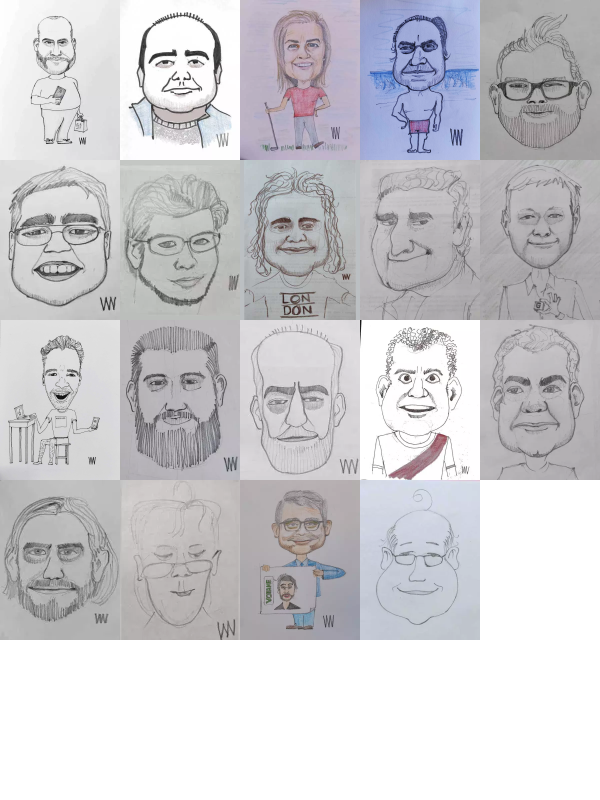
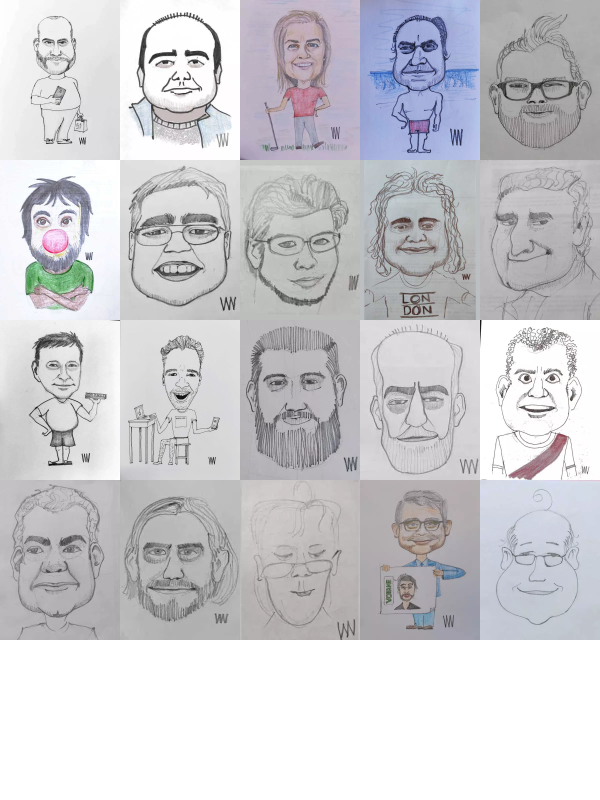
Version 20210319

diff --git a/galeria-conocidos.html b/galeria-conocidos.html
@@ -36,25 +36,27 @@
 				<area shape="rect" coords="192,000,288,128" onclick="muestraImagen('images/personajes/AnnieV.webp    ')" alt="AnnieV         ">
 				<area shape="rect" coords="288,000,384,128" onclick="muestraImagen('images/personajes/ArielJurjo.webp')" alt="ArielJurjo     ">
 				<area shape="rect" coords="384,000,480,128" onclick="muestraImagen('images/personajes/ClausH.webp    ')" alt="ClausH         ">
+				<area shape="rect" coords="000,128,096,256" onclick="muestraImagen('images/personajes/CristianG.webp ')" alt="DiegoT         ">
 				<area shape="rect" coords="000,128,096,256" onclick="muestraImagen('images/personajes/DiegoT.webp    ')" alt="DiegoT         ">
-				<area shape="rect" coords="096,128,192,256" onclick="muestraImagen('images/personajes/EzequielC.webp ')" alt="EzequielC      ">
-				<area shape="rect" coords="192,128,288,256" onclick="muestraImagen('images/personajes/GermanG.webp   ')" alt="GermanG        ">
-				<area shape="rect" coords="288,128,384,256" onclick="muestraImagen('images/personajes/Guille-II.webp ')" alt="Guille-II      ">
-				<area shape="rect" coords="384,128,480,256" onclick="muestraImagen('images/personajes/GuilleD.webp   ')" alt="GuilleD        ">
-				<area shape="rect" coords="000,256,096,384" onclick="muestraImagen('images/personajes/GuilleFlores.webp')" alt="Guille Flores">
-				<area shape="rect" coords="096,256,192,384" onclick="muestraImagen('images/personajes/JoseLuisM.webp ')" alt="JoseLuisM      ">
-				<area shape="rect" coords="192,256,288,384" onclick="muestraImagen('images/personajes/joseO.webp     ')" alt="joseO          ">
-				<area shape="rect" coords="288,256,384,384" onclick="muestraImagen('images/personajes/JuanCV.webp	   ')" alt="JuanCV     	   ">
-				<area shape="rect" coords="384,256,480,384" onclick="muestraImagen('images/personajes/Magiord.webp   ')" alt="Magiord        ">
-				<area shape="rect" coords="000,384,096,512" onclick="muestraImagen('images/personajes/MatiasB.webp   ')" alt="MatiasB        ">
-				<area shape="rect" coords="096,384,192,512" onclick="muestraImagen('images/personajes/Nane.webp      ')" alt="Nane           ">
-				<area shape="rect" coords="192,384,288,512" onclick="muestraImagen('images/personajes/OscarAbe.webp  ')" alt="OscarAbe       ">
-				<area shape="rect" coords="288,384,384,512" onclick="muestraImagen('images/personajes/RubenD.webp    ')" alt="RubenD         ">
-				<area shape="rect" coords="384,384,480,512" onclick="muestraImagen('images/personajes/WillieV.webp   ')" alt="WillieV        ">
-				<area shape="rect" coords="000,512,096,640" onclick="muestraImagen('images/personajes/')" alt="">
+				<area shape="rect" coords="096,128,192,256" onclick="muestraImagen('images/personajes/DiegoT.webp    ')" alt="DiegoT         ">
+				<area shape="rect" coords="192,128,288,256" onclick="muestraImagen('images/personajes/EzequielC.webp ')" alt="EzequielC      ">
+				<area shape="rect" coords="288,128,384,256" onclick="muestraImagen('images/personajes/GermanG.webp   ')" alt="GermanG        ">
+				<area shape="rect" coords="384,128,480,256" onclick="muestraImagen('images/personajes/Guille-II.webp ')" alt="Guille-II      ">
+				<area shape="rect" coords="000,256,096,384" onclick="muestraImagen('images/personajes/GuilleDianda.webp')" alt="GuilleD        ">
+				<area shape="rect" coords="096,256,192,384" onclick="muestraImagen('images/personajes/GuilleFlores.webp')" alt="Guille Flores">
+				<area shape="rect" coords="192,256,288,384" onclick="muestraImagen('images/personajes/JoseLuisM.webp ')" alt="JoseLuisM      ">
+				<area shape="rect" coords="288,256,384,384" onclick="muestraImagen('images/personajes/joseO.webp     ')" alt="joseO          ">
+				<area shape="rect" coords="384,256,480,384" onclick="muestraImagen('images/personajes/JuanCV.webp	   ')" alt="JuanCV     	   ">
+				<area shape="rect" coords="000,384,096,512" onclick="muestraImagen('images/personajes/Magiord.webp   ')" alt="Magiord        ">
+				<area shape="rect" coords="096,384,192,512" onclick="muestraImagen('images/personajes/MatiasB.webp   ')" alt="MatiasB        ">
+				<area shape="rect" coords="192,384,288,512" onclick="muestraImagen('images/personajes/Nane.webp      ')" alt="Nane           ">
+				<area shape="rect" coords="288,384,384,512" onclick="muestraImagen('images/personajes/OscarAbe.webp  ')" alt="OscarAbe       ">
+				<area shape="rect" coords="384,384,480,512" onclick="muestraImagen('images/personajes/RubenD.webp    ')" alt="RubenD         ">
+				<area shape="rect" coords="000,512,096,640" onclick="muestraImagen('images/personajes/WillieV.webp   ')" alt="WillieV        ">
 				<area shape="rect" coords="096,512,192,640" onclick="muestraImagen('images/personajes/')" alt="">
 				<area shape="rect" coords="192,512,288,640" onclick="muestraImagen('images/personajes/')" alt="">
-				<area shape="rect" coords="288,512,384,640" onclick="muestraImagen('images/personajes/')" alt="">	
+				<area shape="rect" coords="288,512,384,640" onclick="muestraImagen('images/personajes/')" alt="">
+				<area shape="rect" coords="384,512,480,640" onclick="muestraImagen('images/personajes/')" alt="">	
 			
 			</map>
 			<img usemap="#primary" src="images/personajes/galeria-conocidos.webp" alt="personajes conocidos">
